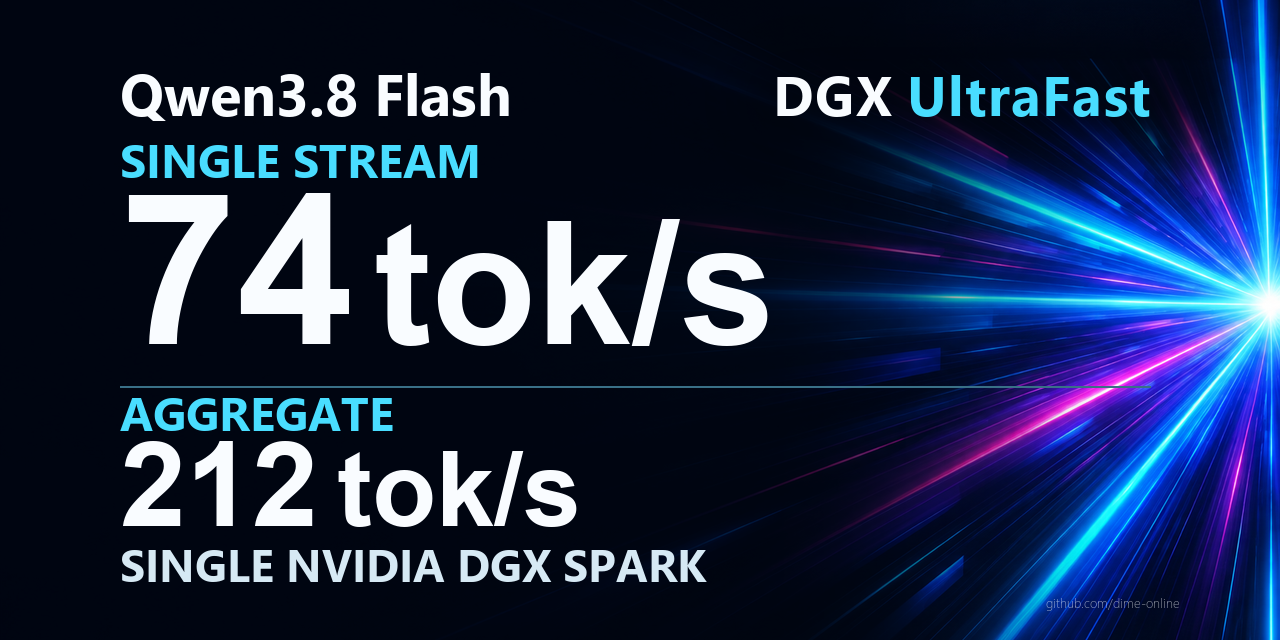
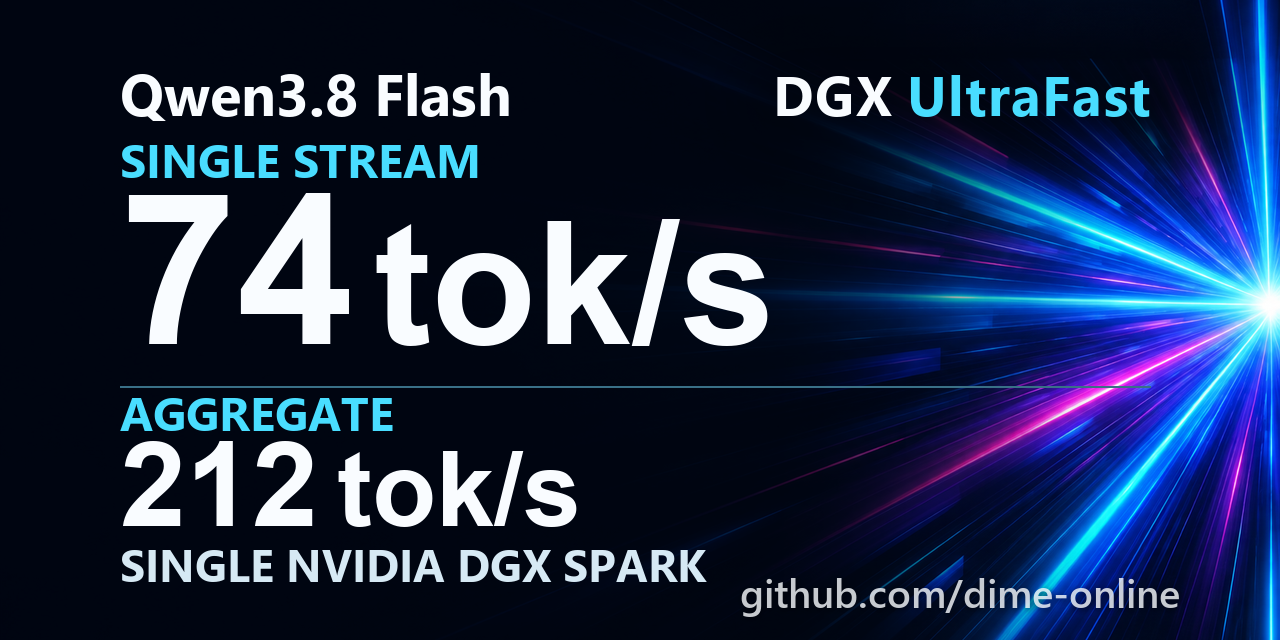
Make attribution watermark readable

Changed region(s): [[0.5625, 0.9062, 0.9375, 0.9688]]

diff --git a/README.md b/README.md
@@ -1,5 +1,5 @@
 <!-- SPDX-License-Identifier: CC-BY-NC-4.0 -->
-<p align="center"><a href="https://github.com/dime-online"><img src="docs/assets/hero-banner-v2.png" alt="Qwen3.8 Flash · DGX UltraFast banner with 74 tok/s single stream and 212 tok/s aggregate on one DGX Spark, over cyan and magenta speed rays" width="100%"></a></p>
+<p align="center"><a href="https://github.com/dime-online"><img src="docs/assets/hero-banner-v3.png" alt="Qwen3.8 Flash · DGX UltraFast banner with 74 tok/s single stream and 212 tok/s aggregate on one DGX Spark, over cyan and magenta speed rays" width="100%"></a></p>
 
 # Qwen3.8 Flash · DGX UltraFast
 
